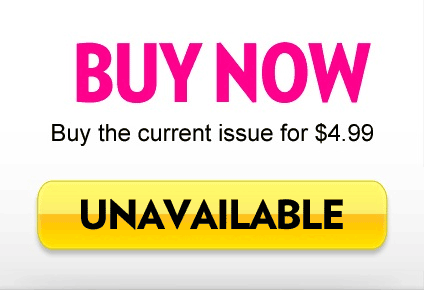
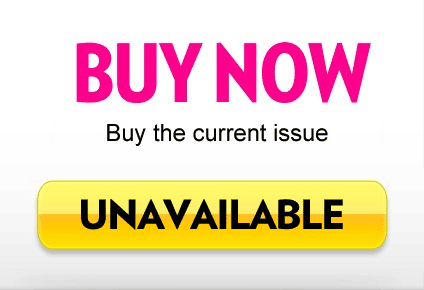
remove issue price from store buttons

Changed region(s): [[0.1226, 0.4034, 0.8892, 0.4966]]

diff --git a/store/styles/PE-store.scss b/store/styles/PE-store.scss
@@ -76,7 +76,7 @@
     .buy-issue-button {
       top: 155px;
       &[data-action="buy"] {
-        background-image: url("../images/PE/hero_btn_buy.jpg?v=" + currTime());
+        background-image: url("../images/PE/hero_btn_buy.png?v=" + currTime());
       }
       &[data-action="view"] {
         background-image: url("../images/PE/hero_btn_view.png?v=" + currTime());
